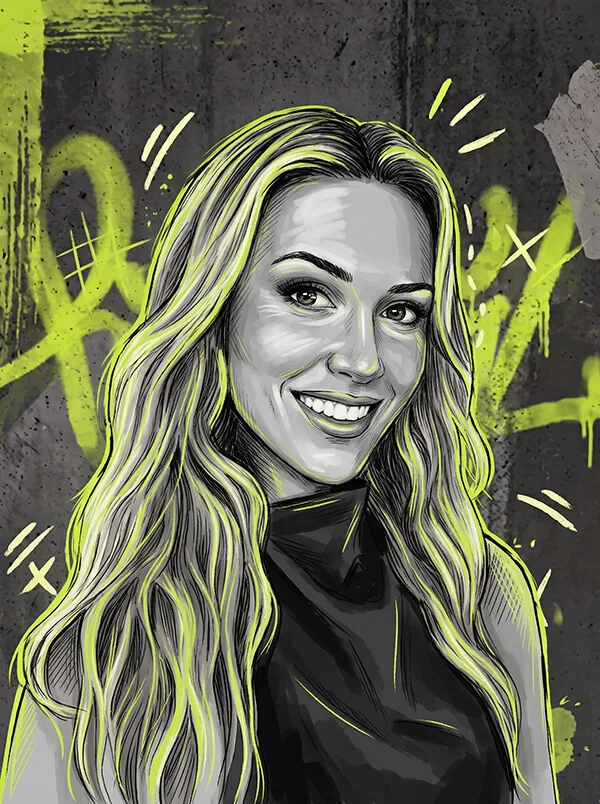
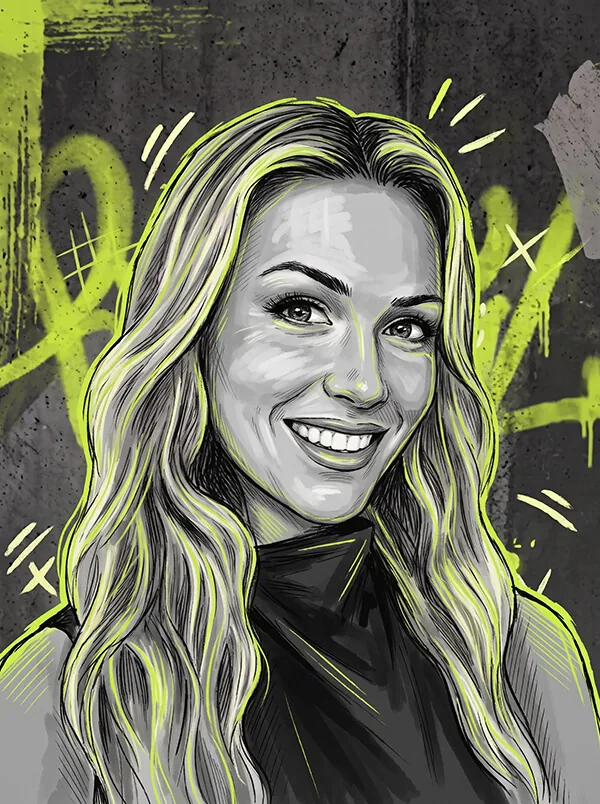
O nás: nová fotka Karolíny
Claude-Session: https://claude.ai/code/session_01MxWeKU1eNNFmwSM4hVRueR

diff --git a/build.py b/build.py
@@ -31,7 +31,7 @@ ROOT = Path(__file__).parent
 SRC = ROOT / "src"
 DIST = ROOT / "dist"
 SITE = "https://webovybalicek.cz"
-VERSION = "181"  # zvýšit při změně CSS/JS (cache busting)
+VERSION = "182"  # zvýšit při změně CSS/JS (cache busting)
 STAGING = os.environ.get("STAGING", "1") != "0"
 
 # Google profil (g.page/webovybalicek-cz) – při nové recenzi stačí přepsat tady
